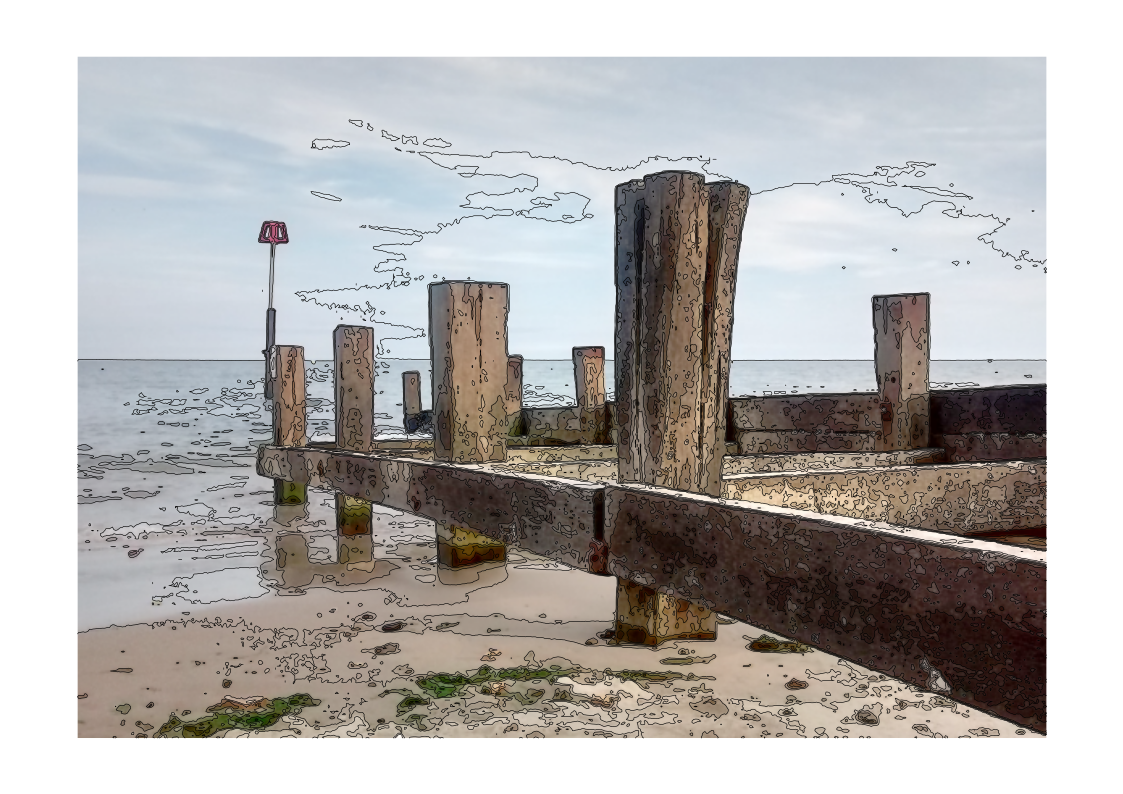
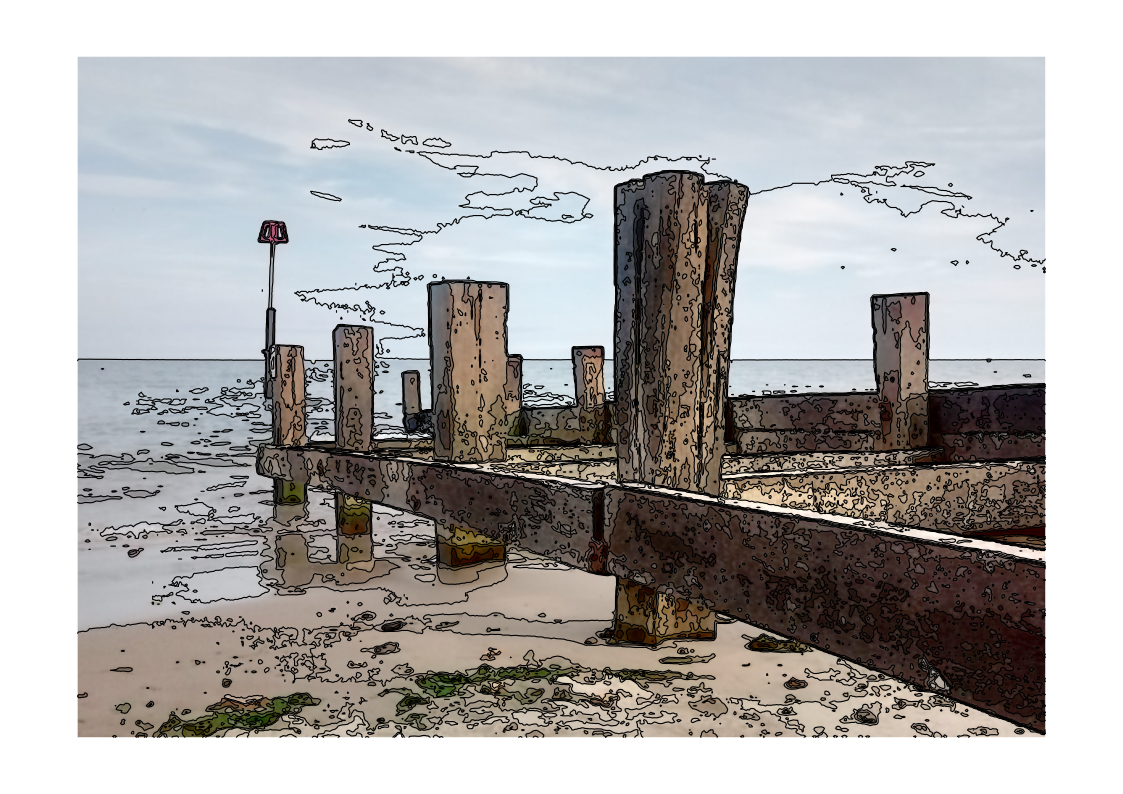
updated example images

diff --git a/README.md b/README.md
@@ -76,7 +76,7 @@ Add extra bits to the SVG -- intended for developer use only.  Default false.
 
 <img alt="Sample heightmap, taken from Wikipedia, shown as a greyscale image" src="examples/Heightmap.png" title="Input image" width=45%>&nbsp;&nbsp;&nbsp;&nbsp;<img alt="The contours generated from the heightmap" src="examples/Heightmap-hc-t64,128,192m0p200x200F.svg" title="Created SVG image" width=45%>
 
-`hcontours examples/beach.png -t 32,64,96,128,160,192,224 --paper A4L --image` produces this:
+`hcontours examples/beach.png -t 32,64,96,128,160,192,224 --paper A4L --image --linewidth 0.3` produces this:
 
 <img alt="Photo of breakwaters on a beach" src="examples/beach.png" title="Input image" width=45%>&nbsp;&nbsp;&nbsp;&nbsp;<img alt="The same photo after processing, showing as the outlines of shapes" src="examples/beach-hc-t32,64,96,128,160,192,224m15pA4LI.png" title="Created SVG image (converted to PNG)" width=45%>
 
